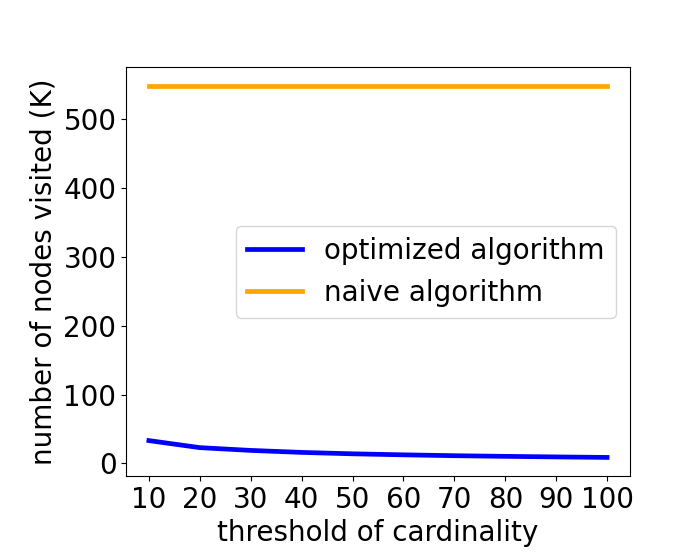
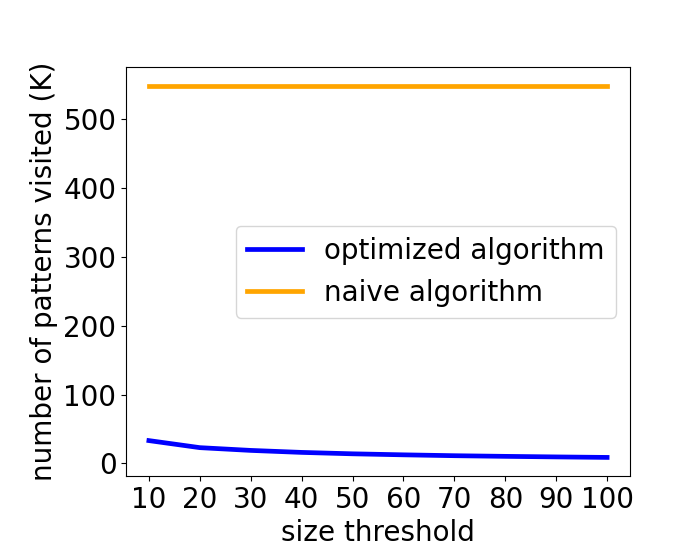
low acc, adult thc

Changed region(s): [[0.03, 0.1214, 0.09, 0.85], [0.3, 0.9107, 0.78, 0.9714]]

diff --git a/Coding/Experiments/AccuracyFairness/AdultData/Thc_0.py b/Coding/Experiments/AccuracyFairness/AdultData/Thc_0.py
@@ -119,7 +119,7 @@ for n in range(len(Thc_list)):
 plt.plot(Thc_list, execution_time1, label="new algorithm", color='blue', linewidth = 3.4)
 plt.plot(Thc_list, execution_time2, label="naive algorithm", color='orange', linewidth = 3.4)
 
-plt.xlabel('threshold of cardinality')
+plt.xlabel('size threshold')
 plt.ylabel('execution time (s)')
 plt.title('AdultDataset')
 plt.xticks(Thc_list)
@@ -132,7 +132,7 @@ plt.show()
 fig, ax = plt.subplots()
 plt.plot(Thc_list, num_calculation1, label="new algorithm", color='blue', linewidth = 3.4)
 plt.plot(Thc_list, num_calculation2, label="naive algorithm", color='orange', linewidth = 3.4)
-plt.xlabel('threshold of cardinality')
+plt.xlabel('size threshold')
 plt.ylabel('number of cardinality calculations (K)')
 plt.title('AdultDataset')
 ax.yaxis.set_major_formatter(FuncFormatter(thousands_formatter))

diff --git a/Coding/Experiments/AccuracyFairness/AdultData/Thc_1_20210127.py b/Coding/Experiments/AccuracyFairness/AdultData/Thc_1_20210127.py
@@ -147,7 +147,7 @@ for n in range(len(Thc_list)):
 plt.plot(Thc_list, execution_time1, label="optimized algorithm", color='blue', linewidth = 3.4)
 plt.plot(Thc_list, execution_time2, label="naive algorithm", color='orange', linewidth = 3.4)
 
-plt.xlabel('threshold of cardinality')
+plt.xlabel('size threshold')
 plt.ylabel('execution time (s)')
 
 plt.xticks(Thc_list)
@@ -161,8 +161,8 @@ plt.show()
 fig, ax = plt.subplots()
 plt.plot(Thc_list, num_calculation1, label="optimized algorithm", color='blue', linewidth = 3.4)
 plt.plot(Thc_list, num_calculation2, label="naive algorithm", color='orange', linewidth = 3.4)
-plt.xlabel('threshold of cardinality')
-plt.ylabel('number of nodes visited (K)')
+plt.xlabel('size threshold')
+plt.ylabel('number of patterns visited (K)')
 
 ax.yaxis.set_major_formatter(FuncFormatter(thousands_formatter))
 

diff --git a/Coding/Experiments/AccuracyFairness/AdultData/Thc_2_20210629.py b/Coding/Experiments/AccuracyFairness/AdultData/Thc_2_20210629.py
@@ -158,7 +158,7 @@ for n in range(len(Thc_list)):
 plt.plot(Thc_list, execution_time1, label="optimized algorithm", color='blue', linewidth = 3.4)
 plt.plot(Thc_list, execution_time2, label="naive algorithm", color='orange', linewidth = 3.4)
 
-plt.xlabel('threshold of cardinality')
+plt.xlabel('size threshold')
 plt.ylabel('execution time (s)')
 
 plt.xticks(Thc_list)
@@ -172,8 +172,8 @@ plt.show()
 fig, ax = plt.subplots()
 plt.plot(Thc_list, num_calculation1, label="optimized algorithm", color='blue', linewidth = 3.4)
 plt.plot(Thc_list, num_calculation2, label="naive algorithm", color='orange', linewidth = 3.4)
-plt.xlabel('threshold of cardinality')
-plt.ylabel('number of nodes visited (K)')
+plt.xlabel('size threshold')
+plt.ylabel('number of patterns visited (K)')
 
 ax.yaxis.set_major_formatter(FuncFormatter(thousands_formatter))
 

diff --git a/Coding/Experiments/General_FP/CreditcardData/num_attributes_1_20210629.py b/Coding/Experiments/General_FP/CreditcardData/num_attributes_1_20210629.py
@@ -126,7 +126,7 @@ TN = pd.read_csv(TN_data_file)
 
 overall_FPR = len(FP) / (len(FP) + len(TN))
 
-time_limit = 5*60
+time_limit = 10*60
 # based on experiments with the above parameters, when number of attributes = 8, naive algorithm running time > 10min
 # so for naive alg, we only do when number of attributes <= 7
 # when there are 6 att, naive alg runs faster than new alg with 13 att
